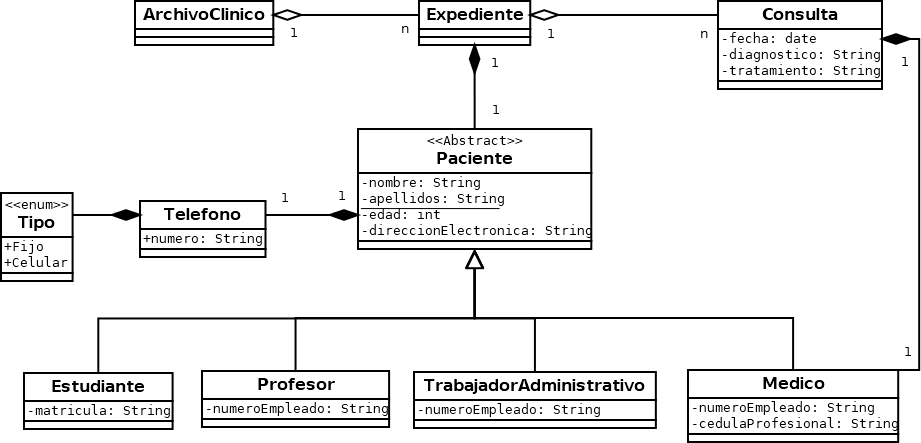
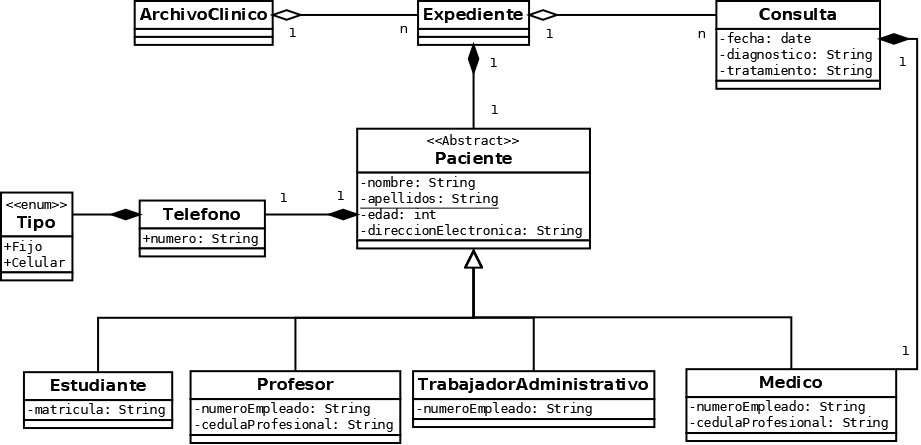
Clases arregladas

Changed region(s): [[0.0, 0.0, 1.0, 1.0], [0.1216, 0.0, 0.3344, 0.1174], [0.4256, 0.0, 0.608, 0.1467]]

diff --git a/src/modelo/Main.java b/src/modelo/Main.java
@@ -4,16 +4,19 @@ public class Main {
 
 	public static void main(String[] args) throws Exception {
 		Telefono telefono = new Telefono(Tipo.tipo.Fijo, "5527529715");
-		Estudiante estudiante = new Estudiante();
-		estudiante.setNombre("Jose Alberto");
-		estudiante.setApellidos("Roberto");
-		estudiante.setEdad(63);
-		estudiante.setDireccionElectronica("cosas@gmail.com");
-		estudiante.setTelefono(telefono);
-		estudiante.setMatricula("180030773");
+		Estudiante estudiante = new Estudiante("Jose", "Roberto", 63, "cosas@gmail.com",telefono,"180030773");
 		
 		System.out.println("Nombre "+estudiante.getNombre()+" Matricula "+estudiante.getMatricula());
 		System.out.println("Telefono "+estudiante.getTelefono().getNumero());
+		
+		Medico medico = new Medico("Alegandra", "Mercado", 45, "Doctora@gmail.com", telefono, "12345", "ASD123");
+		System.out.println("Nombre: "+medico.getNombre()+" cedula Profesional: "+medico.getCedulaProfesional());
+		
+		Profesor profesor = new Profesor("Javier", "Torres", 29, "MonasChinas@Yahoo.com", telefono, "98345","PSO098");
+		System.out.println("Nombre: "+profesor.getNombre()+" numero de Empleado: "+profesor.getCedulaProfesional());
+		
+		TrabajadorAdministrativo secretaria = new TrabajadorAdministrativo("Clara", "Robles", 32, "ChocoFlan@Hotmail.com", telefono, "89234");
+		System.out.println("Nombre: "+secretaria.getNombre()+" numero de Empleado: "+secretaria.getNumeroEmpleado());
 	}
 
 }

diff --git a/src/modelo/Profesor.java b/src/modelo/Profesor.java
@@ -1,31 +1,33 @@
 package modelo;
 
 public class Profesor extends Paciente {
-	private int numeroEmpleado;
-    private int edad;
+	private String numeroEmpleado;
+	private String cedulaProfesional;
 
     // Constructor
-    public Profesor(int numeroEmpleado, int edad) throws Exception{
-        super();
-        this.numeroEmpleado = numeroEmpleado;
-        this.edad = edad;
+    public Profesor(String nombre, String apellidos, int edad, 
+    		String direccionElectronica, Telefono telefono,
+    		String numeroEmpleado, String cedulaProfesional) throws Exception{
+        super(nombre, apellidos, edad, direccionElectronica, telefono);
+        setNumeroEmpleado(numeroEmpleado);
+        setCedulaProfesional(cedulaProfesional);
     }
 
     // Getters y Setters
-    public int getNumeroEmpleado() {
+    public String getNumeroEmpleado() {
         return numeroEmpleado;
     }
 
-    public void setNumeroEmpleado(int numeroEmpleado) {
+    public void setNumeroEmpleado(String numeroEmpleado) {
         this.numeroEmpleado = numeroEmpleado;
     }
 
-    public int getEdad() {
-        return edad;
-    }
+	public String getCedulaProfesional() {
+		return cedulaProfesional;
+	}
 
-    public void setEdad(int edad) {
-        this.edad = edad;
-    }
-
+	public void setCedulaProfesional(String cedulaProfecional) {
+		this.cedulaProfesional = cedulaProfecional;
+	}
+    
 }

diff --git a/src/modelo/Medico.java b/src/modelo/Medico.java
@@ -5,12 +5,13 @@ import java.util.regex.Pattern;
 public class Medico extends Paciente{
 	private String numeroEmpleado;
     private String cedulaProfesional;
-    private Consulta consulta; // Relación de composición
 
-    public Medico(String numeroEmpleado, String cedulaProfesional, Consulta consulta) throws Exception {
-        this.numeroEmpleado = numeroEmpleado;
-        this.cedulaProfesional = cedulaProfesional;
-        this.consulta = consulta;
+    public Medico(String nombre, String apellidos, int edad, String direccionElectronica, 
+    		Telefono telefono, String numeroEmpleado, 
+    		String cedulaProfesional) throws Exception {
+    	super(nombre, apellidos, edad, direccionElectronica, telefono);
+    	setNumeroEmpleado(numeroEmpleado);
+        setCedulaProfesional(cedulaProfesional);
     }
 
 	public String getNumeroEmpleado() {
@@ -39,14 +40,6 @@ public class Medico extends Paciente{
 		}else {
 			throw new Exception("La cedula profesional no es validas");
 		}
-	}
-
-	public Consulta getConsulta() {
-		return consulta;
-	}
-
-	public void setConsulta(Consulta consulta) {
-		this.consulta = consulta;
 	}
 
 }

diff --git a/src/modelo/TrabajadorAdministrativo.java b/src/modelo/TrabajadorAdministrativo.java
@@ -1,30 +1,23 @@
 package modelo;
 
 public class TrabajadorAdministrativo extends Paciente {
-	private int numeroEmpleado;
-    private int edad;
+	private String numeroEmpleado;
 
     // Constructor
-    public TrabajadorAdministrativo(int numeroEmpleado, int edad) throws Exception{
-        super();
-        this.numeroEmpleado = numeroEmpleado;
-        this.edad = edad;
+    public TrabajadorAdministrativo(String nombre, String apellidos, int edad, 
+    		String direccionElectronica, Telefono telefono, 
+    		String numeroEmpleado) throws Exception{
+        super(nombre, apellidos, edad, direccionElectronica, telefono);
+        setNumeroEmpleado(numeroEmpleado);
     }
 
     // Getters y Setters
-    public int getNumeroEmpleado() {
+    public String getNumeroEmpleado() {
         return numeroEmpleado;
     }
 
-    public void setNumeroEmpleado(int numeroEmpleado) {
+    public void setNumeroEmpleado(String numeroEmpleado) {
         this.numeroEmpleado = numeroEmpleado;
     }
 
-    public int getEdad() {
-        return edad;
-    }
-
-    public void setEdad(int edad) {
-        this.edad = edad;
-    }
 }

diff --git a/src/modelo/Consulta.java b/src/modelo/Consulta.java
@@ -5,11 +5,14 @@ public class Consulta {
 	private Calendar fecha;
     private String diagnostico;
     private String tratamiento;
+    private Medico medico;
 
-    public Consulta(Calendar fecha, String diagnostico, String tratamiento) {
-        this.fecha = fecha;
-        this.diagnostico = diagnostico;
-        this.tratamiento = tratamiento;
+    public Consulta(Calendar fecha, String diagnostico, 
+    		String tratamiento, Medico medico) throws Exception{
+        setFecha(fecha);
+        setDiagnostico(diagnostico);
+        setTratamiento(tratamiento);
+        setMedico(medico);
     }
 
 	
@@ -37,4 +40,14 @@ public class Consulta {
 		this.tratamiento = tratamiento;
 	}
 
+
+	public Medico getMedico() {
+		return medico;
+	}
+
+
+	public void setMedico(Medico medico) {
+		this.medico = medico;
+	}
+	
 }

diff --git a/src/modelo/Estudiante.java b/src/modelo/Estudiante.java
@@ -8,8 +8,8 @@ public class Estudiante extends Paciente {
 	
 	public Estudiante() {}
 
-	public Estudiante(String matricula) throws Exception{
-		super();
+	public Estudiante(String nombre, String apellidos, int edad, String direccionElectronica, Telefono telefono, String matricula) throws Exception{
+		super(nombre, apellidos, edad, direccionElectronica, telefono);
 		setMatricula(matricula);
 	}
 
